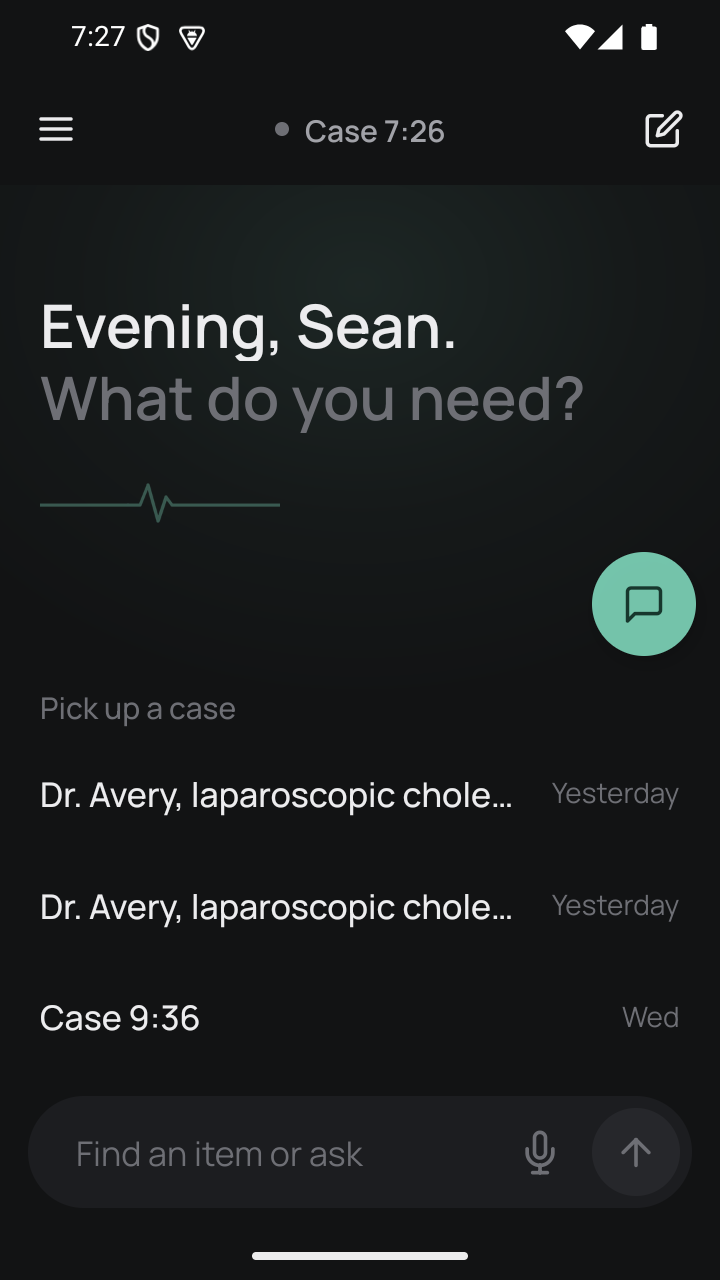
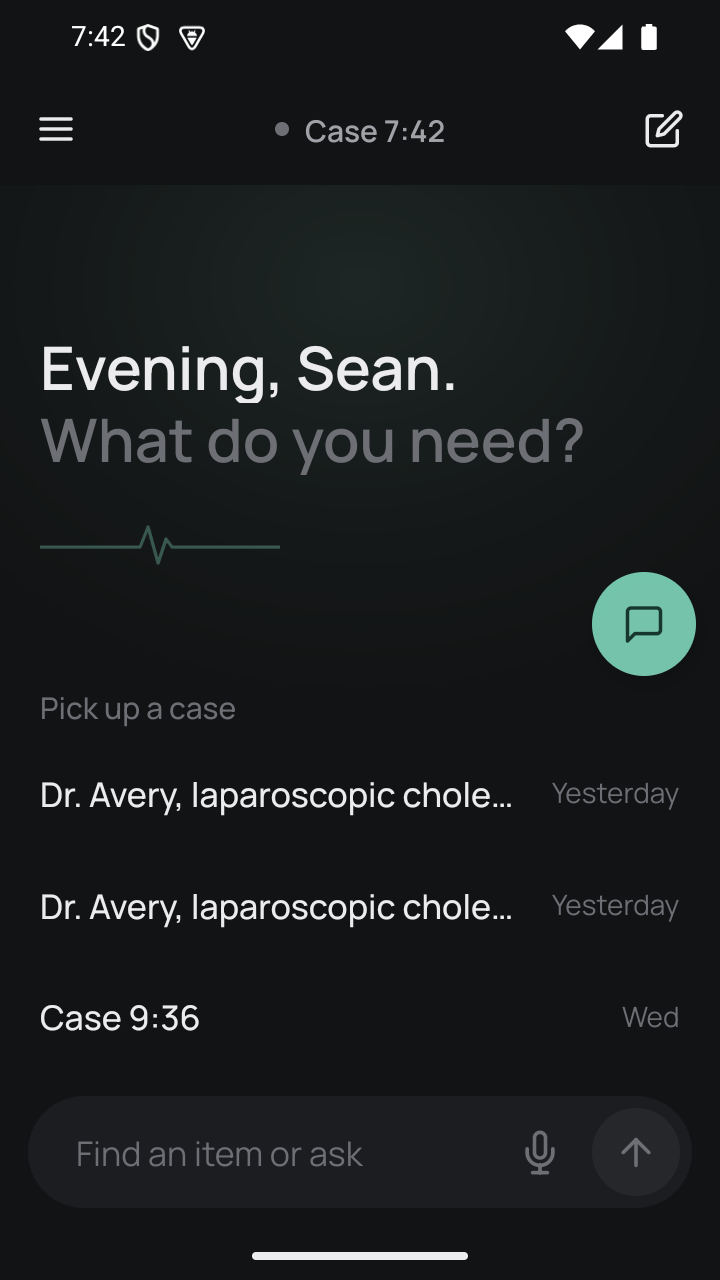
Ticket #35: clear space above the headline on short screens
On a short screen the greeting moves down so the top spots have a full gap
above the headline, and the bottom spots sit midway between the greeting and
the pick-up list. Tall screens are unchanged. New short and right-side
ornav_pixel screenshots in qa/35/.

diff --git a/src/features/feedback/logic.test.ts b/src/features/feedback/logic.test.ts
@@ -46,11 +46,28 @@ describe('feedbackEdges (ticket #33)', () => {
 describe('feedbackEdges on a short screen (ticket #35)', () => {
   // A 360 x 640 screen: the gap between the greeting and the pick-up list holds one button, not two.
   const short = { insetTop: 36, insetBottom: 24, topBar: 56, greeting: 170, composer: 76, pickUp: 200, gap: 12, height: 640, size: 52, strip: 55 };
-  it('moves the top corners into the empty strip between the top bar and the greeting', () => {
-    expect(feedbackEdges(short).top).toBe(36 + 56 + (55 - 52) / 2);
+  it('moves the top corners into the strip between the top bar and the greeting, a full gap below the top bar', () => {
+    expect(feedbackEdges(short).top).toBe(36 + 56 + 12);
   });
-  it('keeps the bottom corners above the box and the pick-up list', () => {
-    expect(feedbackEdges(short).bottom).toBe(24 + 76 + 200 + 12);
+  it('moves the greeting down so the button has a full gap above the headline too', () => {
+    const { top, greetingShift } = feedbackEdges(short);
+    const headline = 36 + 56 + 55 + greetingShift;
+    expect(greetingShift).toBe(52 + 2 * 12 - 55);
+    expect(headline - (top + 52)).toBe(12);
+  });
+  it('never moves the greeting on a tall screen', () => {
+    expect(feedbackEdges({ ...short, height: 914 }).greetingShift).toBe(0);
+  });
+  it('never moves the greeting when the strip is already tall enough', () => {
+    expect(feedbackEdges({ ...short, strip: 90 }).greetingShift).toBe(0);
+  });
+  it('centres the bottom corners between the moved greeting and the pick-up list, so neither is crowded', () => {
+    const { bottom, greetingShift } = feedbackEdges(short);
+    const greetingEnd = 36 + 56 + 170 + greetingShift;
+    const pickUpTop = 640 - (24 + 76 + 200);
+    const buttonTop = 640 - bottom - 52;
+    expect(buttonTop - greetingEnd).toBe(pickUpTop - (buttonTop + 52));
+    expect(bottom).toBeGreaterThanOrEqual(24 + 76 + 200);
   });
   it('keeps the top and bottom spots clearly apart', () => {
     const { top, bottom } = feedbackEdges(short);
@@ -61,7 +78,7 @@ describe('feedbackEdges on a short screen (ticket #35)', () => {
     // Just tall enough: two buttons and one gap fit between the #33 edges.
     const justTall = { ...short, height: 36 + 56 + 170 + 12 + 52 + 12 + 52 + 24 + 76 + 200 + 12 };
     expect(feedbackEdges(justTall).top).toBe(36 + 56 + 170 + 12);
-    expect(feedbackEdges({ ...justTall, height: justTall.height - 1 }).top).toBe(36 + 56 + (55 - 52) / 2);
+    expect(feedbackEdges({ ...justTall, height: justTall.height - 1 }).top).toBe(36 + 56 + 12);
   });
 });
 

diff --git a/App.tsx b/App.tsx
@@ -247,6 +247,8 @@ function SignedIn({
 }) {
   const insets = useSafeAreaInsets();
   const frame = useSafeAreaFrame();
+  // The feedback button's corner edges; on a short screen the greeting moves down to make room (ticket #35).
+  const edges = feedbackEdges({ insetTop: insets.top, insetBottom: insets.bottom, topBar: TOP_BAR_HEIGHT, greeting: GREETING_SPACE, composer: COMPOSER_SPACE, pickUp: PICK_UP_SPACE, gap: S.md, height: frame.height, size: FEEDBACK_BUTTON, strip: GREETING_STRIP });
   const source = useMemo(() => (DEMO ? demoSource() : supabaseSource(user.id)), [user.id]);
   const lib = useLibrary(source, user.id, !DEMO);
   const assistant = useMemo(() => supabaseAssistant(supabase), []);
@@ -264,6 +266,7 @@ function SignedIn({
   const [selection, setSelection] = useState<Selection | null>(null);
   // Made in an effect, so the outbox of an old user (or of a dev-mode remount) is closed and its timed retries stop.
   const [feedback, setFeedback] = useState<FeedbackSender | null>(null);
+  const withFeedback = showFeedbackButton(user) && feedback !== null;
   useEffect(() => {
     // The screenshot goes to the private bucket under this admin's own folder (ticket #23, migration 0006).
     const pictures = { userId: user.id, bucket: supabase.storage.from('feedback-screenshots'), read: readPicture };
@@ -331,6 +334,7 @@ function SignedIn({
             pickUp={cases.pickUp}
             onPickUp={cases.switchTo}
             caseCard={caseCard}
+            greetingShift={withFeedback ? edges.greetingShift : 0}
           />
         }
         composer={<Composer text={text} onChangeText={setText} onSend={send} busy={omni.busy} />}
@@ -408,12 +412,13 @@ function SignedIn({
       {/* Solid strip behind the status bar, so scrolled content never runs under the clock. */}
       <View pointerEvents="none" style={[styles.statusStrip, { height: insets.top }]} />
       {/* Admins only: drawn last, so it sits above every tab and panel. */}
-      {showFeedbackButton(user) && feedback && (
+      {withFeedback && feedback && (
         <Feedback
           sender={feedback}
           page={() => page}
           capture={captureFeedbackScreen}
-          {...feedbackEdges({ insetTop: insets.top, insetBottom: insets.bottom, topBar: TOP_BAR_HEIGHT, greeting: GREETING_SPACE, composer: COMPOSER_SPACE, pickUp: PICK_UP_SPACE, gap: S.md, height: frame.height, size: FEEDBACK_BUTTON, strip: GREETING_STRIP })}
+          top={edges.top}
+          bottom={edges.bottom}
         />
       )}
     </View>

diff --git a/src/features/feedback/logic.ts b/src/features/feedback/logic.ts
@@ -49,7 +49,10 @@ export function cornerSpot(corner: Corner, edges: { top: number; bottom: number;
  * The top and bottom edges for the button (ticket #33): the top corners sit below the top bar and the
  * greeting, the bottom corners above the box and the "Pick up a case" list, so the button covers no text.
  * Ticket #35: on a short screen that gap holds one button, not two apart, so the top corners move up into
- * the empty strip between the top bar and the greeting text (`strip` high), centred in it.
+ * the strip between the top bar and the greeting text, a `gap` below the top bar. `greetingShift` is how far
+ * the greeting moves down so the button also has a `gap` above the headline (0 on a tall screen). The moved
+ * greeting leaves less room, so the bottom corners sit in the middle of the space left between it and the
+ * pick-up list.
  */
 export function feedbackEdges(l: {
   insetTop: number;
@@ -65,11 +68,14 @@ export function feedbackEdges(l: {
   size: number;
   /** Empty space between the top bar and the greeting text. */
   strip: number;
-}): { top: number; bottom: number } {
+}): { top: number; bottom: number; greetingShift: number } {
   const bottom = l.insetBottom + l.composer + l.pickUp + l.gap;
   const below = l.insetTop + l.topBar + l.greeting + l.gap;
-  const fitsBoth = l.height - bottom - below >= 2 * l.size + l.gap;
-  return { top: fitsBoth ? below : l.insetTop + l.topBar + (l.strip - l.size) / 2, bottom };
+  if (l.height - bottom - below >= 2 * l.size + l.gap) return { top: below, bottom, greetingShift: 0 };
+  const greetingShift = Math.max(0, l.size + 2 * l.gap - l.strip);
+  const pickUpTop = l.insetBottom + l.composer + l.pickUp;
+  const free = l.height - pickUpTop - (below - l.gap + greetingShift) - l.size;
+  return { top: l.insetTop + l.topBar + l.gap, bottom: pickUpTop + Math.max(0, free / 2), greetingShift };
 }
 
 /** Finger moves of up to 10 points still count as a tap, so a shaky tap opens the form. */

diff --git a/src/omnibar/OneBox.tsx b/src/omnibar/OneBox.tsx
@@ -86,9 +86,11 @@ type BodyProps = {
   onPickUp: (caseId: string) => void;
   /** The card the case knows: its line sits at the top of the conversation. */
   caseCard?: { id: string; title: string; count: number } | null;
+  /** Extra space above the greeting, so the feedback button fits above it on a short screen (ticket #35). */
+  greetingShift?: number;
 };
 
-export function OneBoxBody({ omni, lib, index, text, greeting, notice, onOpen, onGoTo, pickUp, onPickUp, caseCard }: BodyProps) {
+export function OneBoxBody({ omni, lib, index, text, greeting, notice, onOpen, onGoTo, pickUp, onPickUp, caseCard, greetingShift = 0 }: BodyProps) {
   const scroll = useRef<ScrollViewInstance>(null);
   const matches = useMemo(() => boxMatches(text, index, lib.data, lib.deptId), [text, index, lib.data, lib.deptId]);
   const typing = text.trim() !== '';
@@ -123,7 +125,7 @@ export function OneBoxBody({ omni, lib, index, text, greeting, notice, onOpen, o
         <View style={{ flex: 1, overflow: 'hidden' }}>
           {showGreeting && <LightPool key={`pool-${omni.caseId}`} play={playIntro} />}
           {notice}
-          {showGreeting && <Greeting key={`greet-${omni.caseId}`} lines={greeting} play={playIntro} />}
+          {showGreeting && <Greeting key={`greet-${omni.caseId}`} lines={greeting} play={playIntro} shift={greetingShift} />}
           {showGreeting && pickUp.length > 0 && (
             <View key={`pick-${omni.caseId}`} style={styles.pickUp}>
               <Rise play={playIntro} delay={INTRO_MS}>

diff --git a/src/omnibar/Greeting.tsx b/src/omnibar/Greeting.tsx
@@ -42,9 +42,10 @@ export function LightPool({ play }: { play: boolean }) {
   return <Animated.View pointerEvents="none" accessibilityElementsHidden importantForAccessibility="no-hide-descendants" style={[styles.pool, { opacity: o }]} />;
 }
 
-export function Greeting({ lines, play }: { lines: [string, string]; play: boolean }) {
+/** `shift` adds space above the greeting (ticket #35: room for the feedback button on a short screen). */
+export function Greeting({ lines, play, shift = 0 }: { lines: [string, string]; play: boolean; shift?: number }) {
   return (
-    <View style={styles.greeting}>
+    <View style={[styles.greeting, shift > 0 && { marginTop: GREET_TOP + shift }]}>
       <Rise play={play} delay={LINES_AT + staggerDelay(0, GAP.greeting)}>
         <Text style={styles.greetText}>{lines[0]}</Text>
       </Rise>
